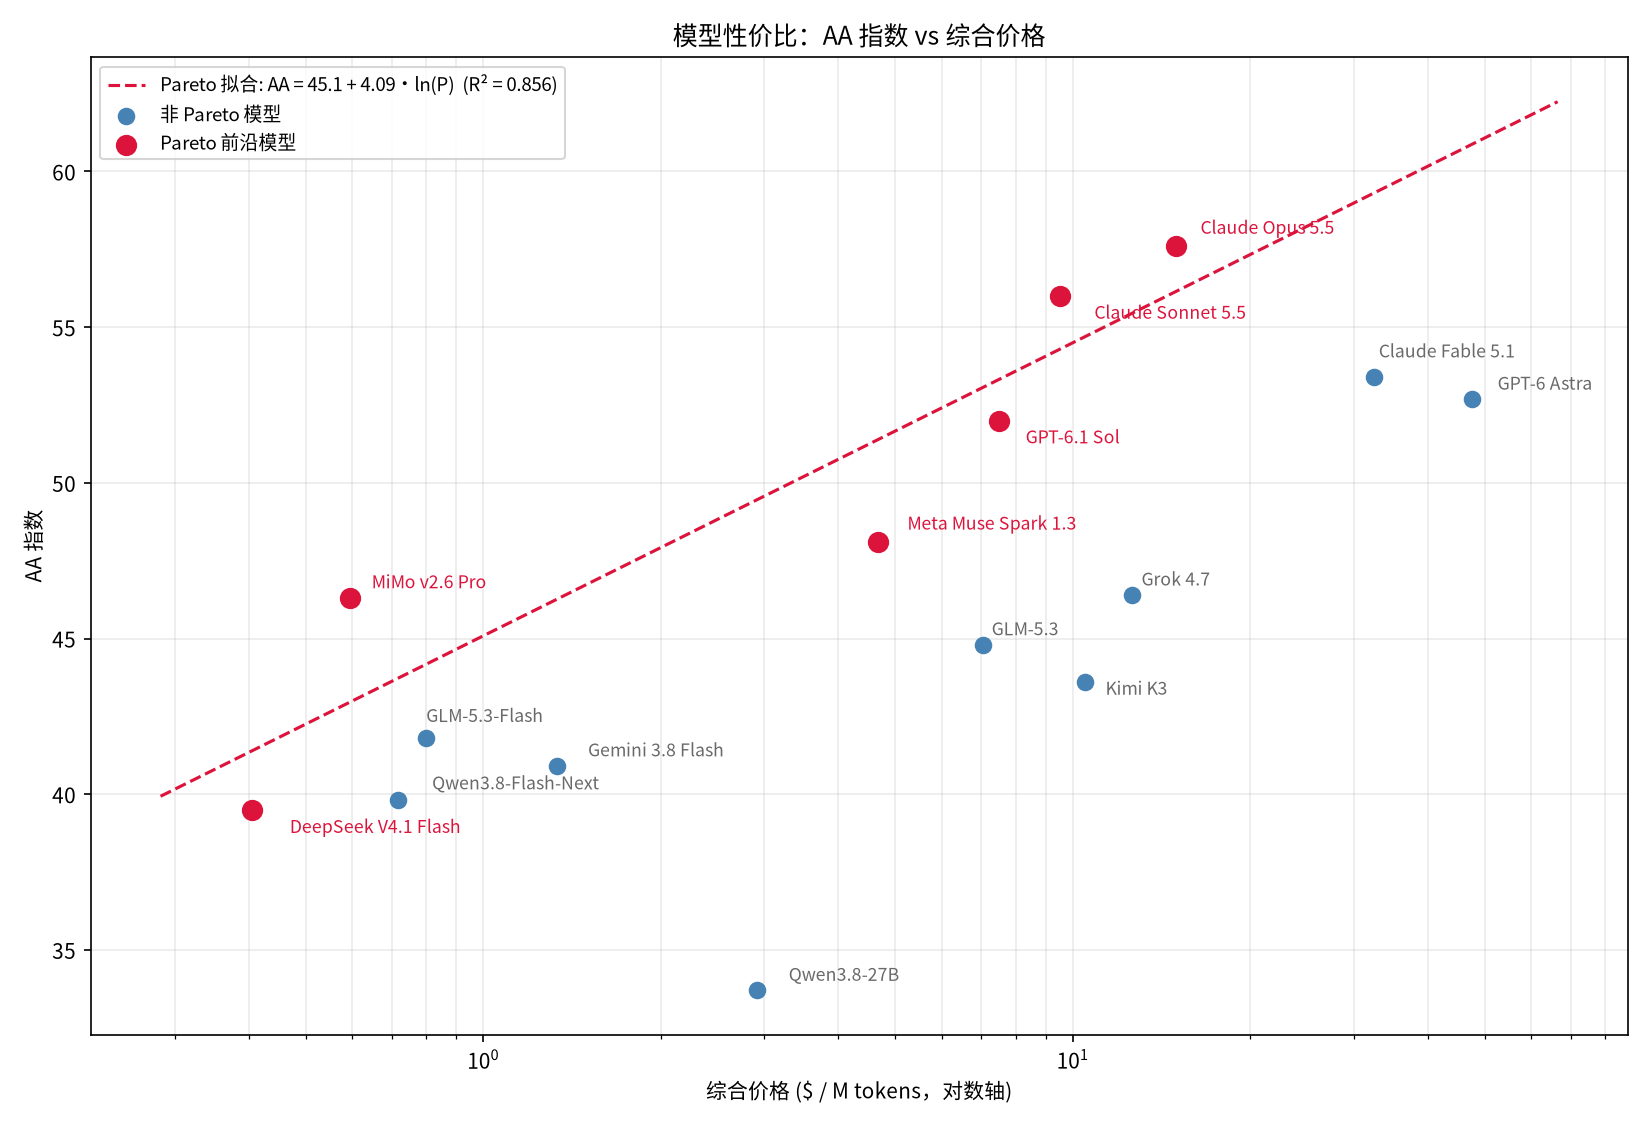
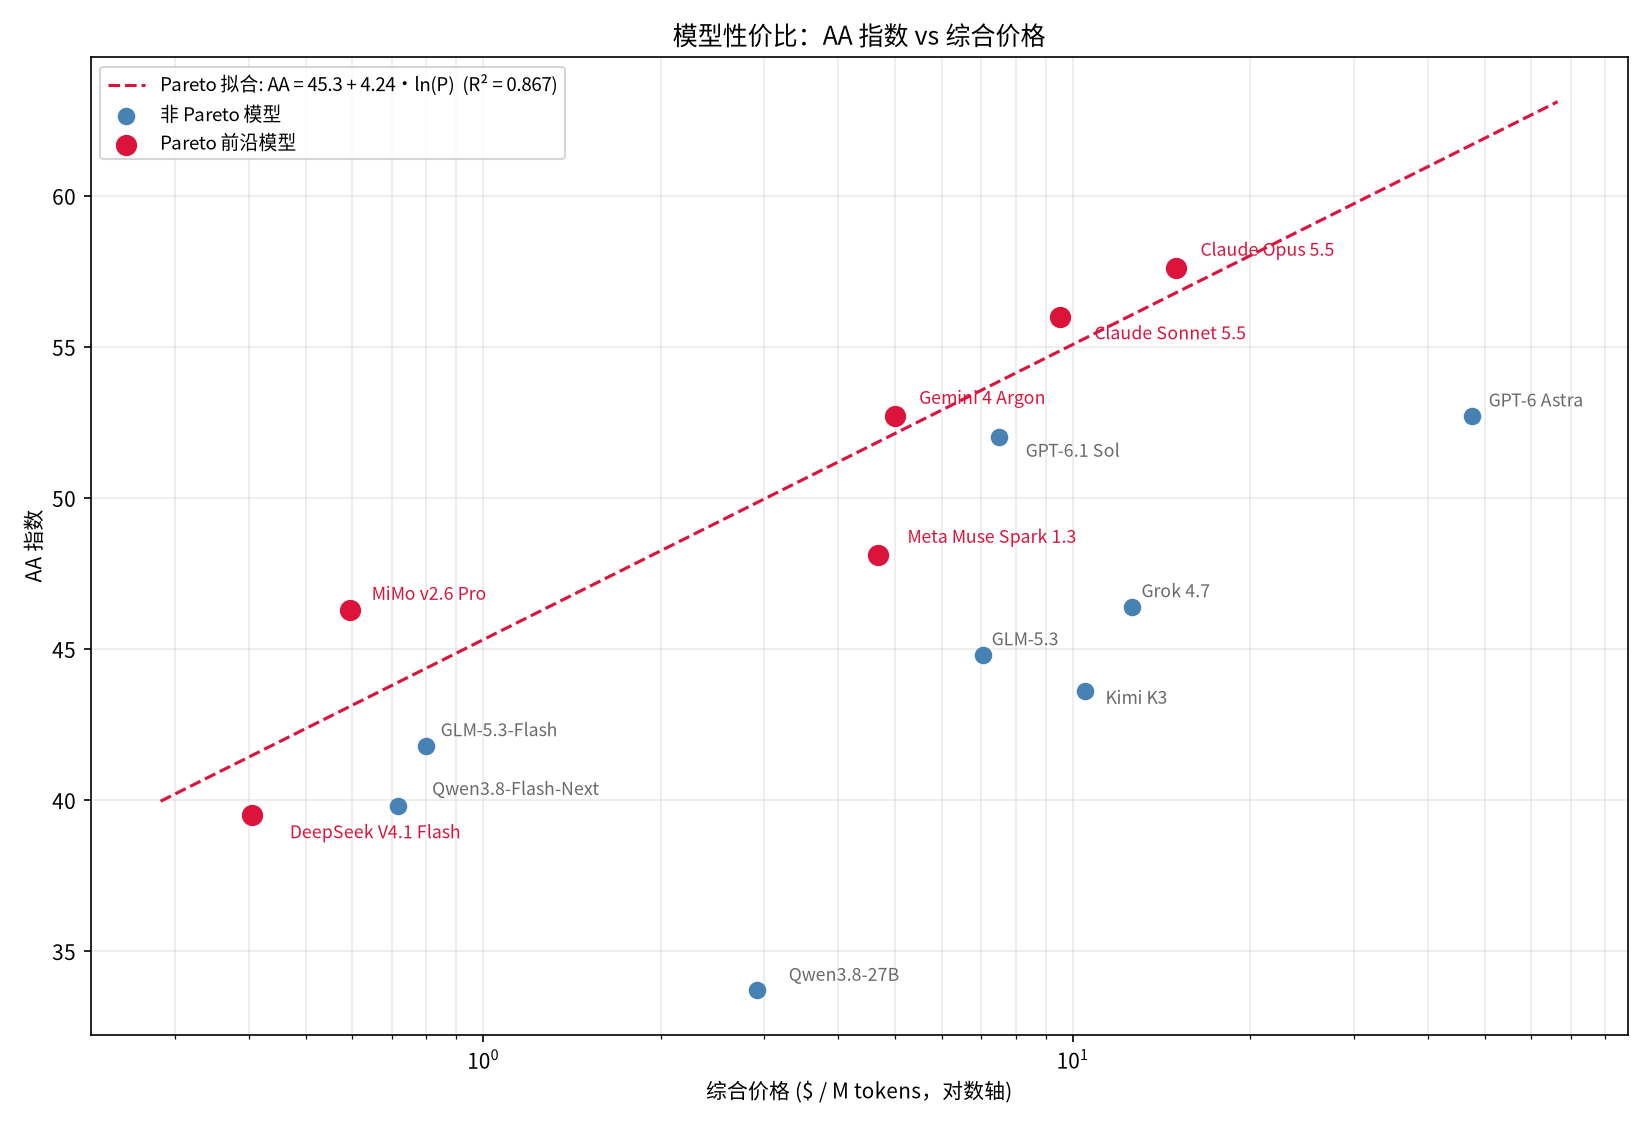
comparison: remove obsolete model entries

diff --git a/comparison/plot_price_vs_aa.py b/comparison/plot_price_vs_aa.py
@@ -11,10 +11,9 @@ plt.rcParams["axes.unicode_minus"] = False
 data = {
     "GPT-6 Astra": (47.5, 52.7),
     "GPT-6.1 Sol": (7.5, 52.0),
-    "Claude Fable 5.1": (32.5, 53.4),
     "Claude Opus 5.5": (15, 57.6),
     "Claude Sonnet 5.5": (9.5, 56.0),
-    "Gemini 3.8 Flash": (1.33333, 40.9),
+    "Gemini 4 Argon": (5, 52.7),
     "Grok 4.7": (12.6, 46.4),
     "Meta Muse Spark 1.3": (4.675, 48.1),
     "MiMo v2.6 Pro": (0.594, 46.3),

diff --git a/comparison/README.md b/comparison/README.md
@@ -20,10 +20,9 @@
 |---|---:|---:|---:|---:|---:|---:|---|
 | [GPT-6 Astra](https://developers.openai.com/api/docs/models/gpt-6-astra) | 2026-09-03 | 闭 | -- | -- | V | 1M | -- |
 | [GPT-6.1 Sol](https://developers.openai.com/api/docs/models/gpt-6.1-sol) | 2026-09-29 | 闭 | -- | -- | V | 1.05M | -- |
-| [Claude Fable 5.1](https://www.anthropic.com/claude-fable-and-mythos-5-1) | 2026-09-01 | 闭 | -- | -- | V | 1M | -- |
 | [Claude Opus 5.5](https://www.anthropic.com/claude-opus-5-5) | 2026-09-22 | 闭 | -- | -- | V | 1M | -- |
 | [Claude Sonnet 5.5](https://www.anthropic.com/claude-sonnet-5-5) | 2026-09-28 | 闭 | -- | -- | V | 1M | -- |
-| [Gemini 3.8 Flash](https://ai.google.dev/gemini-api/docs/models/gemini-3.8-flash) | 2026-09-02 | 闭 | -- | -- | V/A | 1M | -- |
+| [Gemini 4 Argon](https://blog.google/intl/zh-tw/products/explore-get-answers/gemini-4-argon/) | 2026-09-30 | 闭 | -- | -- | V/A | 1M | -- |
 | [Grok 4.7](https://x.ai/news/grok-4-7) | 2026-09-21 | 闭 | -- | -- | V | 500k | -- |
 | [Meta Muse Spark 1.3](https://research.meta.ai/blog/introducing-muse-spark-1-3) | 2026-09-02 | 闭 | -- | -- | V | 1M | -- |
 | [MiMo v2.6 Pro](https://mimo.mi.com/docs/zh-CN/news/latest/v2-6) | 2026-09-21 | 开 | 1.02T | 42B | V/A | 1M | [权重](https://huggingface.co/XiaomiMiMo/MiMo-V2.6-Pro-RL) |
@@ -35,7 +34,6 @@
 | [Qwen3.8-27B](https://qwen.ai/blog?id=qwen3.8) | 2026-08-14 | 开 | 27B | 27B | V | 262k | [权重](https://huggingface.co/Qwen/Qwen3.8-27B) · [GGUF](https://huggingface.co/unsloth/Qwen3.8-27B-GGUF) |
 
 - 多模态列仅记录非文本输入：`V` 表示视觉（图像或视频），`A` 表示音频，`--` 表示仅支持文本输入。
-- Claude Mythos 5.1 与 Claude Fable 5.1 使用同一底层模型，仅安全策略和访问范围不同；Mythos 5.1 仅通过受信任访问计划提供，因此不在表中重复计入。
 - 我们目前无法百分百确认 Qwen3.8-Flash 的底层就是 Qwen3.8-Flash-Next，但是目前有很强证据证明二者是一回事。因此表格内采用 Qwen3.8-Flash-Next 的名字和固有参数、Qwen3.8-Flash 的价格，以及 Qwen3.8-Flash-Next 的 Benchmark 分数，并将其列为开源模型。
 - DeepSeek V4.1 Flash 的 552B 为 backbone 参数量，激活参数为 prefill 8B / decode 16B（因果编码器-解码器架构）；另含 196B Engram 条件记忆与视觉编码器，权重合计 763B。
 
@@ -43,27 +41,27 @@
 
 | 模型 | 输入价格 | 输出价格 | 缓存读取 | 缓存写入 | 综合价格 | 性价比 |
 |---|---:|---:|---:|---:|---:|---:|
-| GPT-6 Astra | \$10 | \$50 | \$1 | \$12.5 | \$47.5 | 80.3% |
-| GPT-6.1 Sol | \$2 | \$10 | \$0.1 | \$2.5 | \$7.5 | **90.5%** |
-| Claude Fable 5.1 | \$10 | \$50 | \$0.25 | \$12.5 | \$32.5 | 83.5% |
-| Claude Opus 5.5 | \$4 | \$20 | \$0.2 | \$5 | \$15 | **95.2%** |
-| Claude Sonnet 5.5 | \$2 | \$10 | \$0.2 | \$2.5 | \$9.5 | **95.7%** |
-| Gemini 3.8 Flash | \$0.375 | \$1.875 | \$0.0375 | \$0.020833 | \$1.33333 | 82.0% |
-| Grok 4.7 | \$2 | \$6 | \$0.5 | -- | \$12.6 | 77.6% |
-| Meta Muse Spark 1.3 | \$1.25 | \$4.25 | \$0.15 | -- | \$4.675 | **86.8%** |
+| GPT-6 Astra | \$10 | \$50 | \$1 | \$12.5 | \$47.5 | 79.5% |
+| GPT-6.1 Sol | \$2 | \$10 | \$0.1 | \$2.5 | \$7.5 | 89.9% |
+| Claude Opus 5.5 | \$4 | \$20 | \$0.2 | \$5 | \$15 | **94.4%** |
+| Claude Sonnet 5.5 | \$2 | \$10 | \$0.2 | \$2.5 | \$9.5 | **95.0%** |
+| Gemini 4 Argon | \$2 | \$10 | \$0.1 | -- | \$5 | **94.1%** |
+| Grok 4.7 | \$2 | \$6 | \$0.5 | -- | \$12.6 | 77.0% |
+| Meta Muse Spark 1.3 | \$1.25 | \$4.25 | \$0.15 | -- | \$4.675 | **86.4%** |
 | MiMo v2.6 Pro | \$0.435 | \$0.87 | \$0.0036 | -- | \$0.594 | **100.0%** |
-| Kimi K3 | \$3 | \$15 | \$0.3 | -- | \$10.5 | 74.0% |
-| GLM-5.3 | \$1.4 | \$4.4 | \$0.26 | -- | \$7.04 | 78.3% |
-| GLM-5.3-Flash | \$0.15 | \$0.5 | \$0.03 | -- | \$0.8 | 87.8% |
-| DeepSeek V4.1 Flash | \$0.30 / \$0.15 | \$1.20 / \$0.60 | \$0.006 / \$0.003 | -- | \$0.405 | **88.5%** |
+| Kimi K3 | \$3 | \$15 | \$0.3 | -- | \$10.5 | 73.4% |
+| GLM-5.3 | \$1.4 | \$4.4 | \$0.26 | -- | \$7.04 | 77.8% |
+| GLM-5.3-Flash | \$0.15 | \$0.5 | \$0.03 | -- | \$0.8 | 87.7% |
+| DeepSeek V4.1 Flash | \$0.30 / \$0.15 | \$1.20 / \$0.60 | \$0.006 / \$0.003 | -- | \$0.405 | **88.7%** |
 | Qwen3.8-Flash-Next | \$0.15 | \$0.47 | \$0.016 | \$0.2 | \$0.717 | 84.4% |
-| Qwen3.8-27B | \$0.425 | \$2.55 | \$0.085 | \$0.53125 | \$2.91125 | 63.2% |
+| Qwen3.8-27B | \$0.425 | \$2.55 | \$0.085 | \$0.53125 | \$2.91125 | 62.9% |
 
 - 不参考套餐/批量折扣/限时优惠价格，表中采用官方原价。
 - 综合价格按“0.1 × 输出价格 + 输入价格 + 20 × 缓存读取价格 + 缓存写入价格”计算。未提供缓存写入价格的 `--` 在本项计算中按 0 计。它表示实际载荷每处理 1M 输入 tokens 对应的真实成本：与这 1M 输入对应的输出、缓存读取和缓存写入量，分别按实际比例乘以各自单价后，与输入成本相加。
 - 有峰谷价格的，综合价格按峰谷价的平均数计算。
+- Gemini 4 Argon 采用 Google 公告中的优惠期价格；公告未提供缓存写入价格，因此按 `--` 计 0。优惠期结束后，输入/输出价格恢复为 \$4/\$20，未用于本表。
 - Grok 4.7 的 prompt ≥200K 长文档位（输入/输出/缓存读取翻倍）与 2 倍价格的 fast 变体均未计入，综合价格按 <200K 标准档计算。
-- 性价比从当前表中选出“相同或更低综合价格下不存在更高 AA 指数模型”的 6 个 Pareto 前沿模型，拟合得到 `预期 AA 指数 = 45.0853 + 4.0876 × ln(综合价格)`（R² = 0.856），最后计算“实际 AA 指数 / 预期 AA 指数 × 92.7777%”。该系数按当前模型集合中的最高原始性价比 92.7777% 归一化，使最高分恰为 100%；其余分数均落在 0–100% 区间。该拟合是当前模型集合内的相对比较，模型或价格变化后需要重新筛选 Pareto 前沿并整体重算。
+- 性价比从当前表中选出“相同或更低综合价格下不存在更高 AA 指数模型”的 6 个 Pareto 前沿模型，拟合得到 `预期 AA 指数 = 45.3058 + 4.2423 × ln(综合价格)`（R² = 0.867），最后计算“实际 AA 指数 / 预期 AA 指数 × 92.8004%”。该系数按当前模型集合中的最高原始性价比 92.8004% 归一化，使最高分恰为 100%；其余分数均落在 0–100% 区间。该拟合是当前模型集合内的相对比较，模型或价格变化后需要重新筛选 Pareto 前沿并整体重算。
 - Pareto模型的性价比已经被加粗。
 - 价格-AA 关系图（横轴为对数综合价格，纵轴为 AA 指数，红点为 Pareto 前沿模型，红色虚线为 Pareto 拟合线）：
 
@@ -86,10 +84,9 @@
 |---|---:|---:|---:|---:|---:|---:|
 | GPT-6 Astra | 56.5% | 88.4% | 41.4% | 54.7% | 31.7% | 52.7% |
 | GPT-6.1 Sol | -- | -- | -- | -- | -- | 52.0% |
-| Claude Fable 5.1 (with fallback) | 63.1% | 91.4% | 47.2% | 59.1% | 29.7% | 53.4% |
 | Claude Opus 5.5 (with fallback) | 67.0% | -- | -- | 61.0% | 32.0% | 57.6% |
 | Claude Sonnet 5.5 (with fallback) | -- | -- | -- | 64.5% | -- | 56.0% |
-| Gemini 3.8 Flash | 56.6% | 87.6% | 44.9% | 47.8% | 18.3% | 40.9% |
+| Gemini 4 Argon | -- | -- | -- | -- | -- | 52.7% |
 | Grok 4.7 | 57.4% | -- | -- | 43.1% | 17.7% | 46.4% |
 | Meta Muse Spark 1.3 | 58.8% | -- | 50.5% | 48.7% | 24.9% | 48.1% |
 | MiMo v2.6 Pro | 61.0% | 89.9% | -- | 49.0% | 27.0% | 46.3% |
@@ -100,16 +97,15 @@
 | Qwen3.8-Flash-Next | 50.6% | -- | -- | 38.0% | 11.1% | 39.8% |
 | Qwen3.8-27B | 46.6% | 73.0% | -- | 33.9% | 5.4% | 33.7% |
 
-- 数据核对日期：2026-09-30；AA 指数版本：v4.3.2。表中 AA 指数保留一位小数。
+- 数据核对日期：2026-10-01；AA 指数版本：v4.3.2。表中 AA 指数保留一位小数。
 - 数据优先采用AA独立评测，其次采用官方模型卡/报告。两者均不存在时，参考采信第三方评价或官方估计值。
-- 闭源推理模型使用表中成绩对应的高推理档位；Claude Fable 5.1 与 Claude Opus 5.5 的 AA 评测启用了默认 fallback，因此单独标注。
+- 闭源推理模型使用表中成绩对应的高推理档位；Claude Opus 5.5 的 AA 评测启用了默认 fallback，因此单独标注。
 - Claude Sonnet 5.5 的 HLE 分数来自 Anthropic 官方发布页；其官方 Terminal-Bench 4.0 分数与本表的 Terminal-Bench 2.1 不同版本，未混用。GPT-6.1 Sol 暂无本表其余单项评测的公开同口径成绩。
 
 # 用户反馈收集
 
-- 闭源里面，Opus 5.5和Gemini 3.8 Flash是偏好评的。
+- 闭源里面，Opus 5.5是偏好评的。
 - Opus 5.5反馈逆天，号称“全球最好用模型”，“老实干活儿的老二回来了，还当了老大”。
-- Gemini 3.8 Flash的评价是“支持视频理解”+“价格战赢家”，缺点是幻觉。
 - Astra的评价极度两极分化。
 - Grok被吐槽“只有NSFW是刚需”。而且这批人还在流向Qwen3.8-27B。
 - 开源里面，MiMo v2.6 Pro中评偏差。评价是“性价比高跑分漂亮，然而不能干活儿”。
@@ -121,8 +117,7 @@
 
 # 点评
 
-- 最强阵营里，Astra->Fable->Sonnet->Opus依次向高智能高性价比进发。
-  - Claude这边比较诡异的是Fable。已经被新款Opus和Sonnet落在了身后。
+- 最强阵营里，Astra->Sonnet/Opus依次向高智能高性价比进发。
   - OpenAI这边是全面拉胯，
 - 第二集群里，K3->GLM-5.3->Spark1.3依次进发。当然，Spark1.3闭源。
   - 同行太给力，Spark 1.3性价比都不高了。
